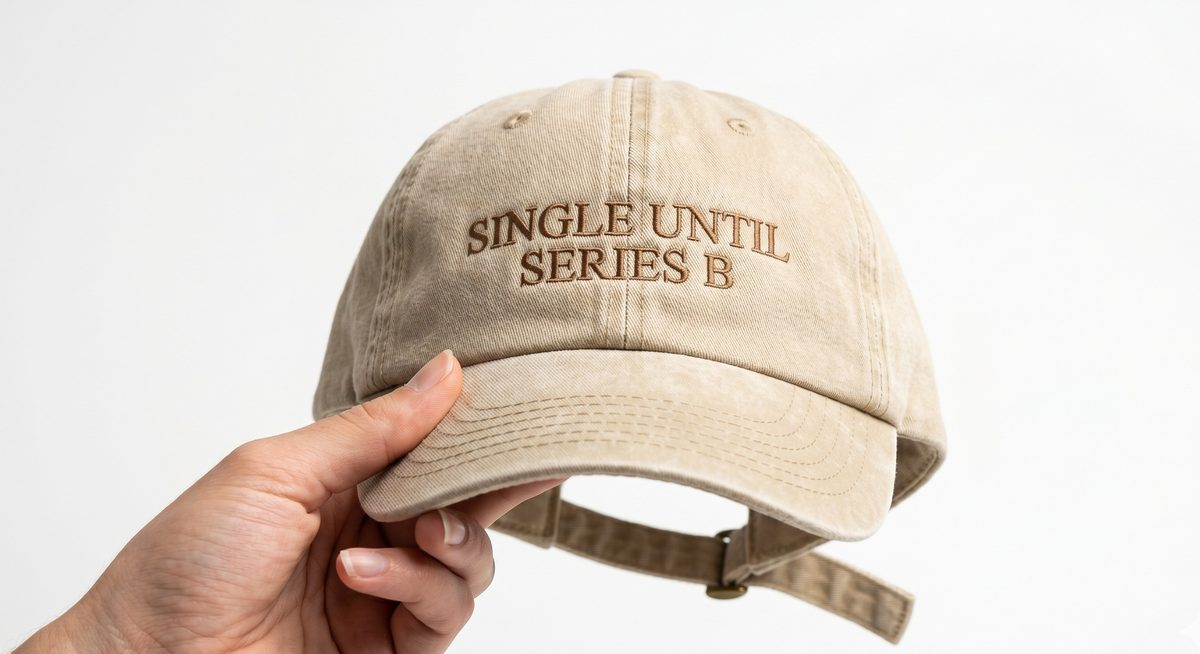
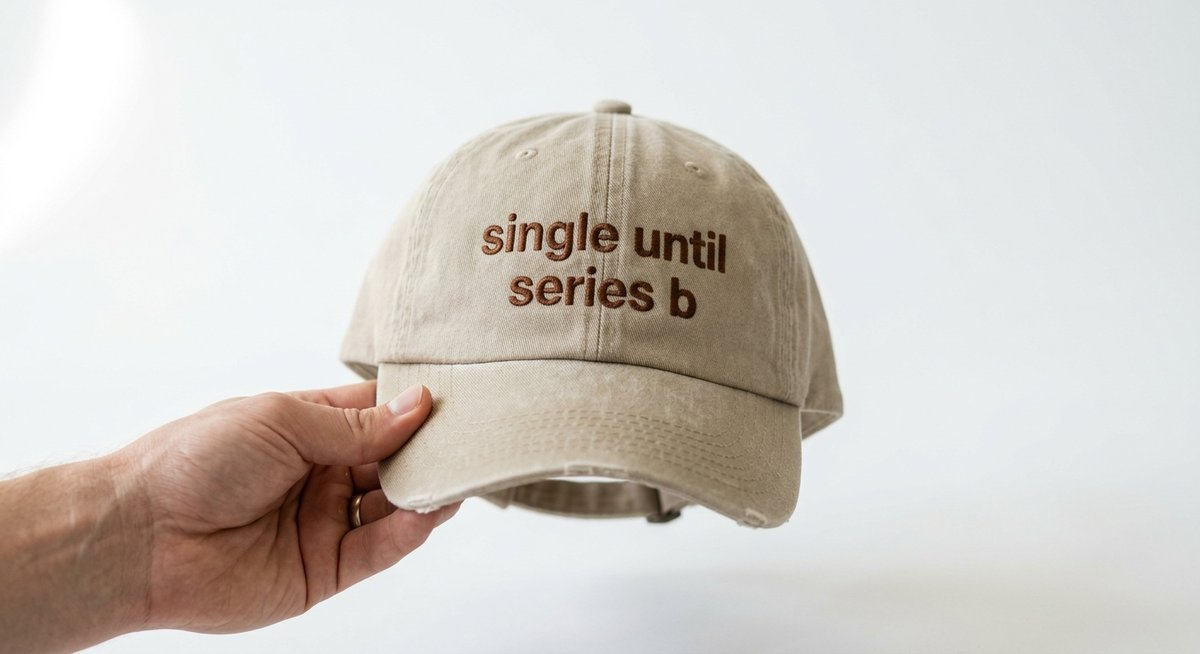
launch: new watermark-free product images, compressed, launch-ready
New images from Google AI Studio (Nano Banana Pro, no watermark):
- hero.jpg: beige cap hand-held, two-line lowercase text (61KB)
- flatlay.jpg: black cap on desk with laptop/coffee/AirPods (124KB)
- detail.jpg: navy cap embroidery close-up, thread texture (168KB)
- lifestyle.jpg: woman wearing burgundy cap in coworking space (136KB)
- lineup.jpg: 5-colour lineup, correct thread colours (82KB)

All images show correct two-line lowercase text: "single until / series b"
Total image payload: 571KB (down from 3.7MB original)

Fixes:
- Hero image dimensions corrected to 1200x654
- Removed "200 units no restock" claim (dropshipping, no real unit limit)
- Stripe hero image saved to Downloads for upload

diff --git a/index.html b/index.html
@@ -583,7 +583,7 @@
   <section class="hero">
     <div class="hero-gallery">
       <div class="hero-img-main">
-        <img id="main-img" src="images/hero.jpg" alt="single until series b embroidered dad hat in beige, hand-held showing front embroidery" width="1200" height="900">
+        <img id="main-img" src="images/hero.jpg" alt="single until series b embroidered dad hat in beige, hand-held showing front embroidery" width="1200" height="654">
       </div>
       <div class="hero-thumbs">
         <div class="hero-thumb active" onclick="swapImg(this, 'images/hero.jpg')"><img src="images/hero.jpg" alt="Front view" loading="lazy"></div>
@@ -649,7 +649,7 @@
           <div class="spec-row"><span class="spec-label">Profile</span><span class="spec-val">Unstructured 6-panel</span></div>
           <div class="spec-row"><span class="spec-label">Closure</span><span class="spec-val">Brass buckle</span></div>
           <div class="spec-row"><span class="spec-label">Fit</span><span class="spec-val">Unisex · one size</span></div>
-          <div class="spec-row"><span class="spec-label">Run</span><span class="spec-val">200 units · no restock</span></div>
+          <div class="spec-row"><span class="spec-label">Made in</span><span class="spec-val">Embroidered in the UK</span></div>
         </div>
       </div>
     </div>
